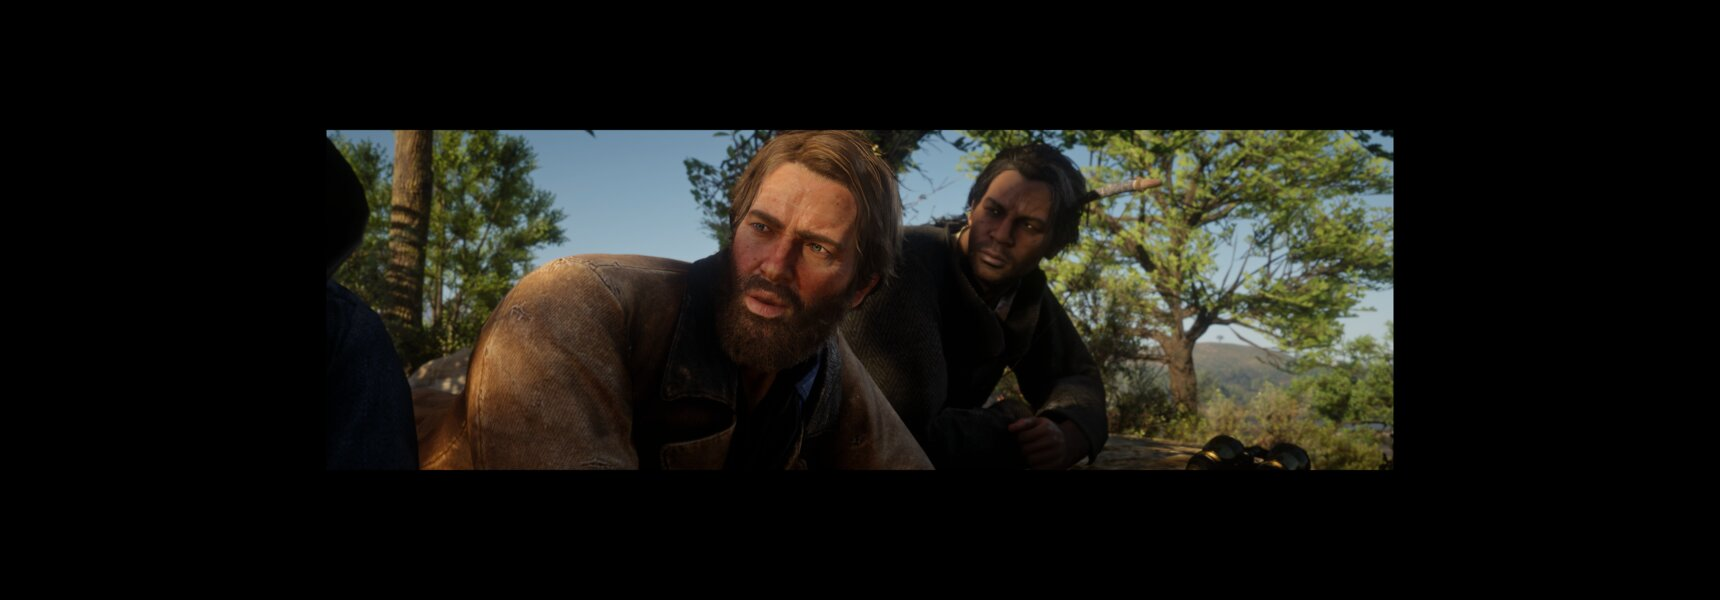
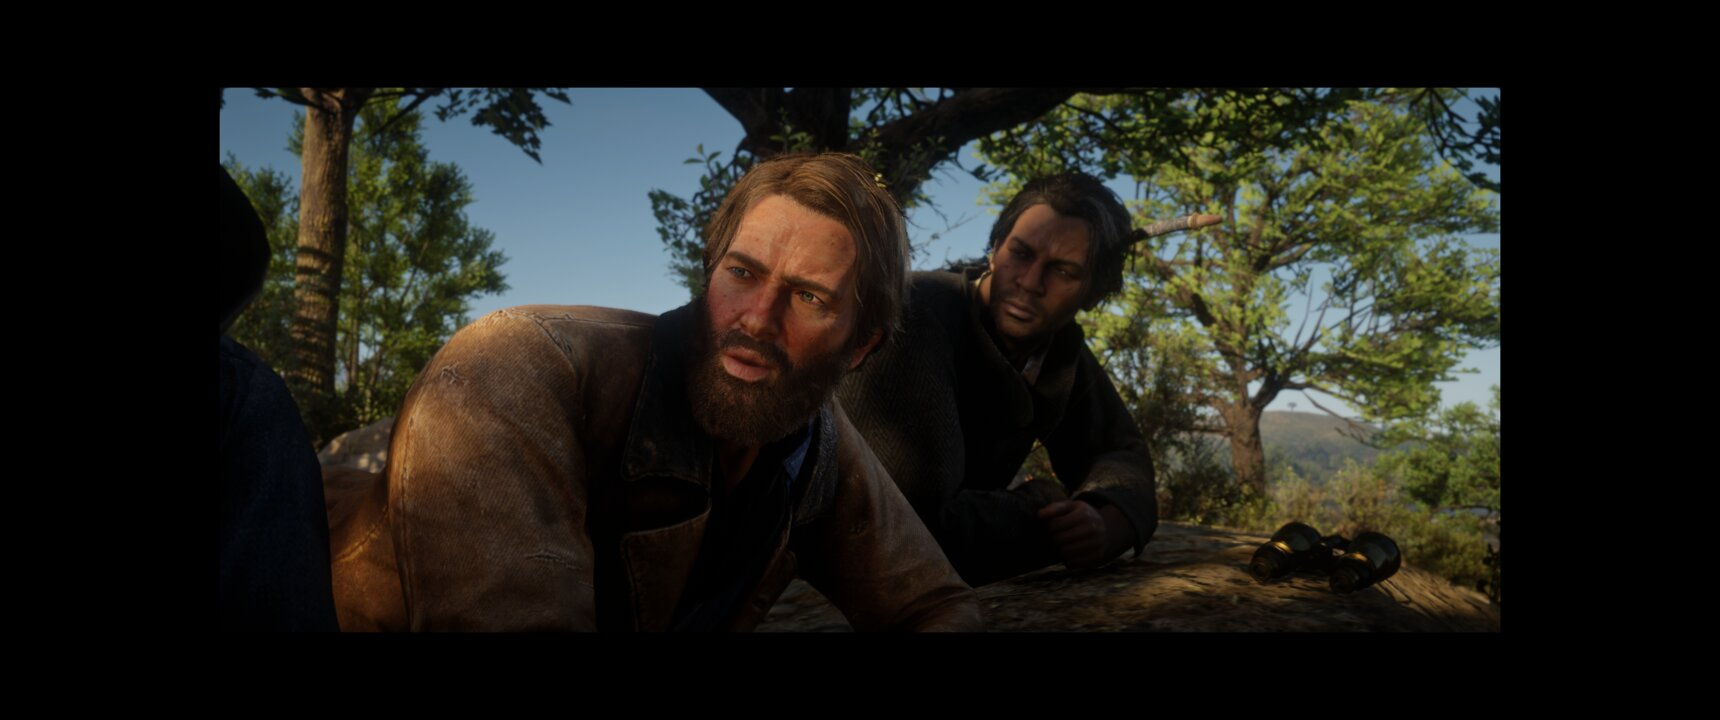
Show the comparison at 21:9

diff --git a/README.md b/README.md
@@ -32,10 +32,10 @@ blends, tested at 3440x1440 (21:9), 3440x1200 (2.87:1) and 2880x1440 (18:9).
 
 ## Comparison
 
-The same cutscene frame at 3440x1200 (2.87:1), taken with the
+The same cutscene frame on a 21:9 screen, taken with the
 [comparison build](#comparison-build).
 
-The game as shipped: a 16:9 box cropped to 2.35:1, with bars on all four sides.
+The game as shipped: bars on all four sides.
 
 ![The game as shipped](images/1-game.jpg)
 
@@ -45,7 +45,7 @@ unchanged, so the shot shows more of the scene than it was composed for.
 ![Bars removed](images/2-bars_removed.jpg)
 
 CutsceneFit: the 2.35:1 shot from the first image, filling the full height, with
-the game's bars at the sides.
+narrow bars at the sides.
 
 ![CutsceneFit](images/3-fit.jpg)
 
